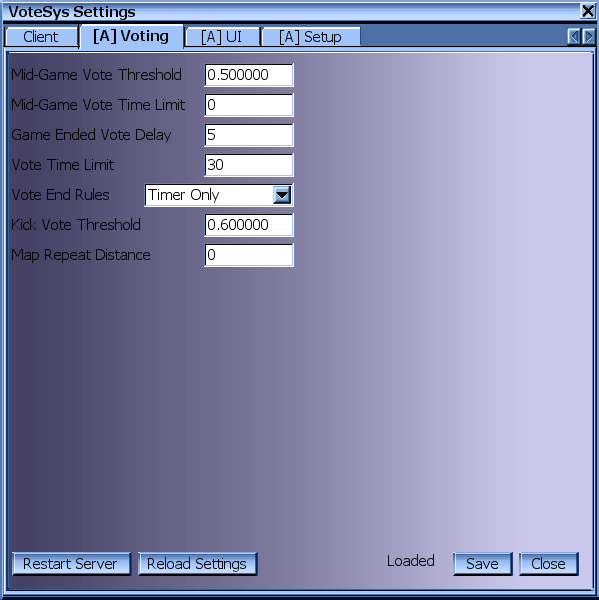
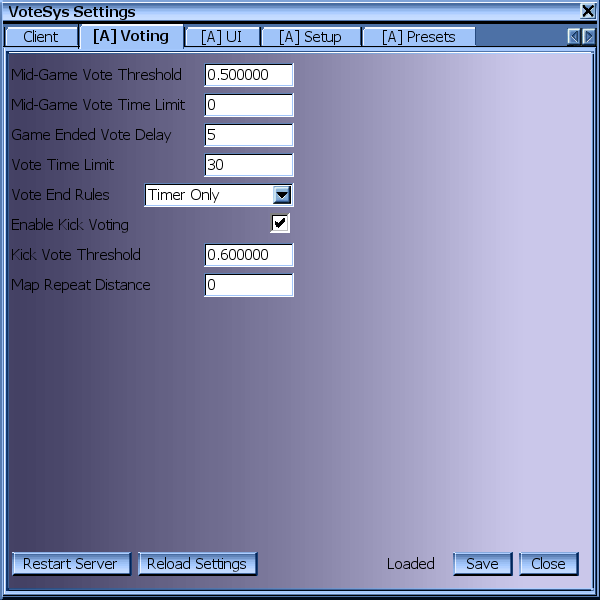
Add Server Setting bEnableKickVoting

diff --git a/README.md b/README.md
@@ -65,6 +65,7 @@ VoteEndCondition=VEC_TimerOnly
 bRetainCandidates=False
 bOpenVoteMenuAutomatically=True
 MinimumMapRepeatDistance=0
+bEnableKickVoting=True
 KickVoteThreshold=0.6
 DefaultTimeMessageClass=Botpack.TimeMessage
 DefaultPreset=DM/Team DeathMatch
@@ -110,6 +111,7 @@ DefaultActors=IpServer.UdpServerUplink MasterServerAddress=unreal.epicgames.com 
 1. [bRetainCandidates](#bretaincandidates)
 1. [bOpenVoteMenuAutomatically](#bopenvotemenuautomatically)
 1. [MinimumRepeatDistance](#minimumrepeatdistance)
+1. [bEnableKickVoting](#benablekickvoting)
 1. [KickVoteThreshold](#kickvotethreshold)
 1. [DefaultTimeMessageClass](#defaulttimemessageclass)
 1. [DefaultPreset](#defaultpreset)
@@ -197,6 +199,12 @@ Number of different maps that must be played before being able to play the curre
 Same map, but a different preset does not count as the same map for the purposes of this check.
 
 Defaults to 0.
+
+#### bEnableKickVoting
+
+If True, players can vote to kick other players. If False, players cant vote to kick others.
+
+Default is True.
 
 #### KickVoteThreshold
 
